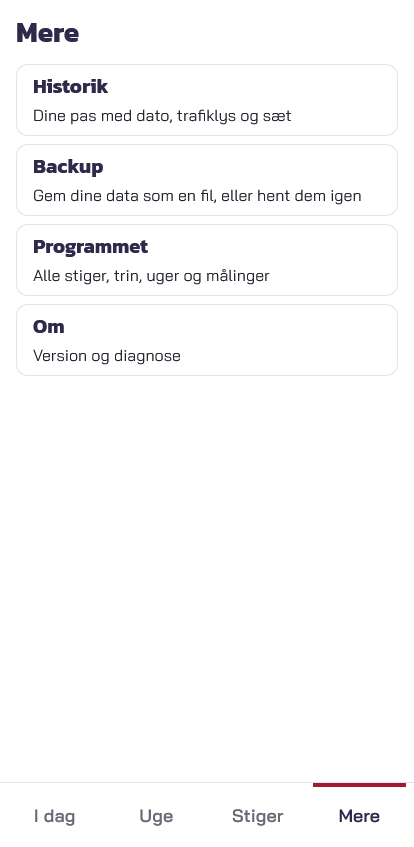
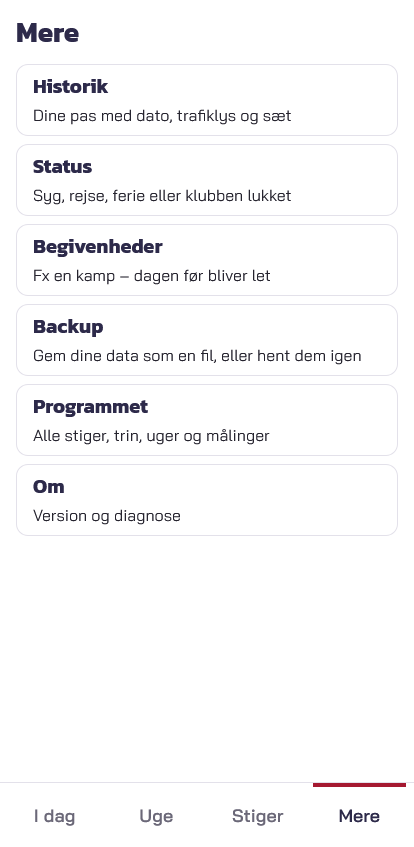
test: a screenshot of Status with two statuses, and Mere with Status and Begivenheder (D67)
Claude-Session: https://claude.ai/code/session_01VvEZwGyT4vba1A14M2oTxQ

diff --git a/e2e/status.spec.ts b/e2e/status.spec.ts
@@ -351,6 +351,13 @@ test('rejse viser rejsepasset på Styrke-dagene, og klubben lukket viser kamp-ru
   ]);
   await expect(items.getByTestId('status-end')).toHaveText(['Afslut', 'Afslut']);
   await expectClean(page, 'Status med to statusser');
+  await page.screenshot({
+    path: 'screenshots/status-liste.png',
+    scale: 'css',
+    animations: 'disabled',
+    fullPage: true,
+    style: IN_FLOW,
+  });
   await page.getByTestId('status').getByRole('button', { name: 'Tilbage' }).click();
 
   // Uge: the travel session on Friday, the fight rounds on Saturday.
